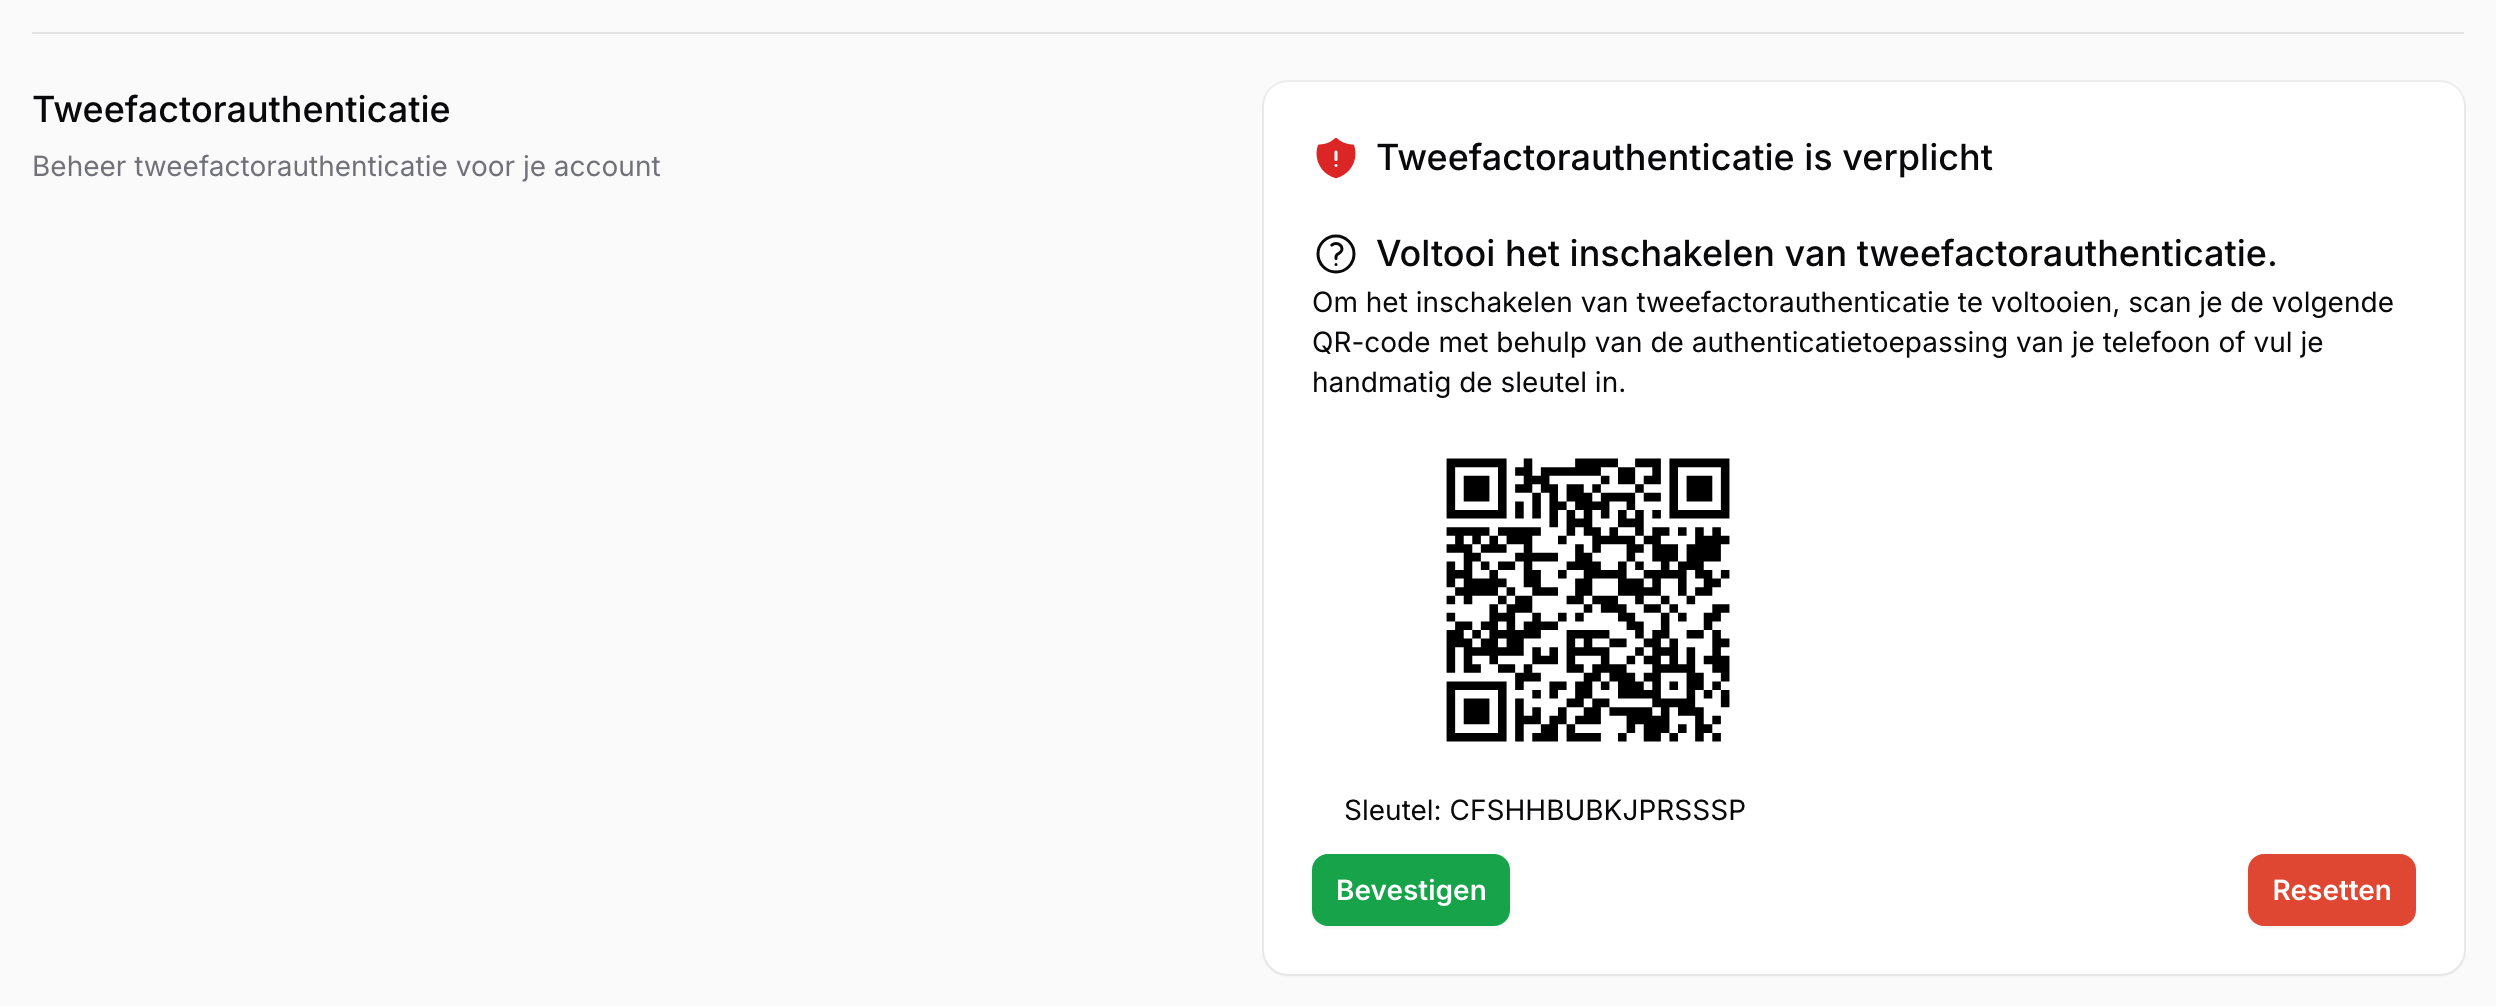
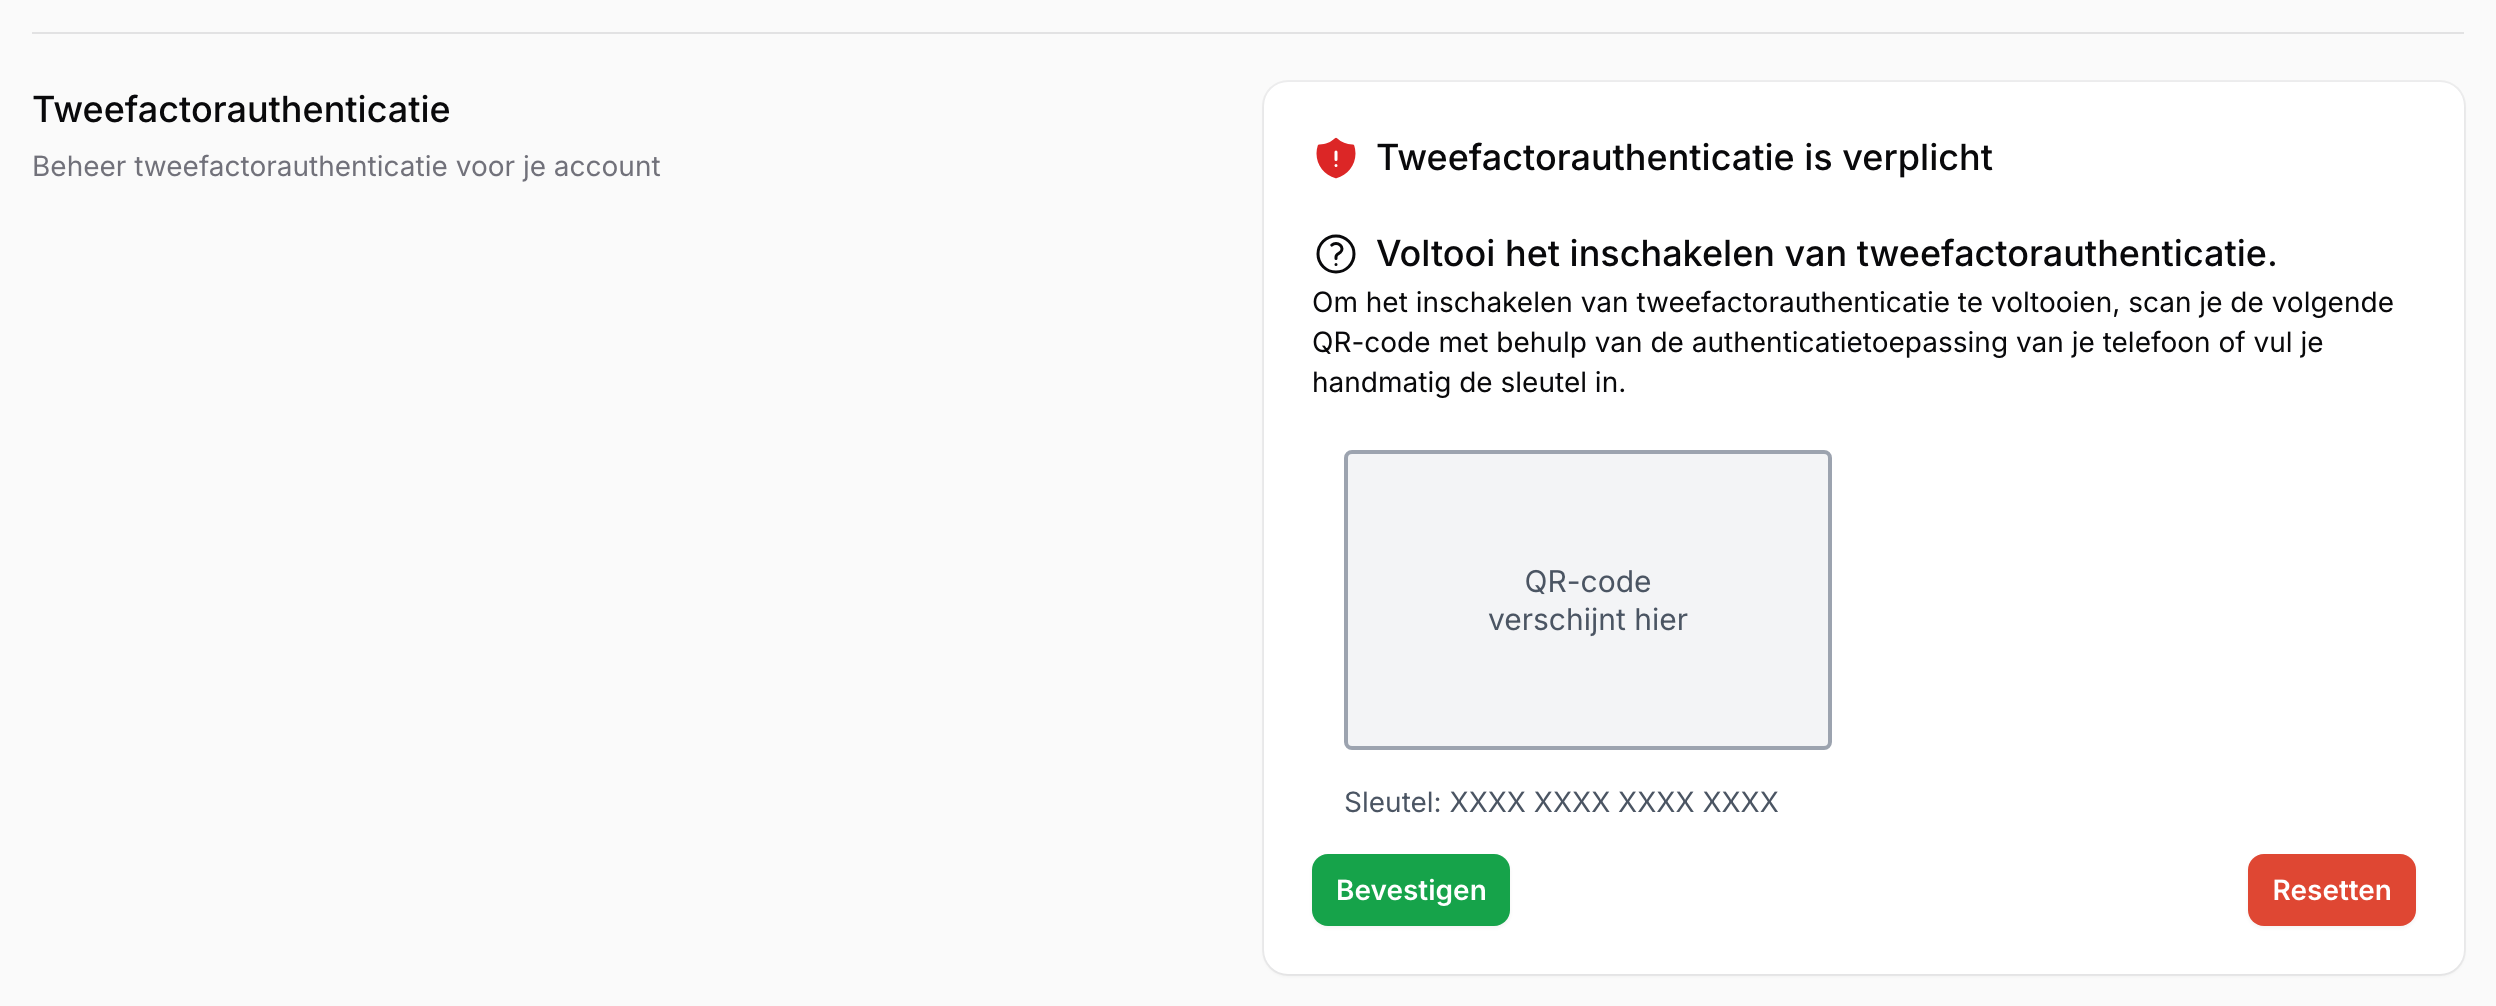
fix: maskeer qr-code en sleutel in otp-screenshot (#158)
De figuur toont een scanbare QR-code met de bijbehorende sleutel en staat in
src/cms/public/handleiding/, dat zonder authenticatie wordt geserveerd. De
sleutel is faker-output uit een dev-database, maar de pijplijn publiceert wat
er op capture-moment in de database staat.

Een nieuwe annotatie, __annotate.mask(), legt vóór de schermafdruk een
plaatshouder met uitleg over een element heen. De afmetingen komen van het
element zelf, net als bij de andere annotaties: de sleutel is tekst van
variabele breedte in een break-words-alinea, dus een brede sleutel maakt de
regel breder en laat hem doorlopen op een tweede regel. Een vaste rechthoek
laat dan een deel van het geheim staan.

Omdat het masker vóór de opname wordt getekend, komt het geheim niet in de
afbeelding terecht -- er valt achteraf niets te verwijderen en er is geen
omkeerbare bewerking die iemand ongedaan kan maken.

Een masker kan niet uit zichzelf luid falen: verschuift een selector, dan
belandt het ergens anders en meldt de capture alsnog succes. Daarom wordt na
het tekenen gecontroleerd of het element daadwerkelijk gedekt is; zo niet, dan
faalt de figuur en wordt er geen bestand geschreven.

De twee elementen krijgen hiervoor een data-screenshot-mask-attribuut, zodat
ook vanuit de blade duidelijk is dat ze niet gepubliceerd mogen worden.

Changed region(s): [[0.5312, 0.4314, 0.7188, 0.832]]

diff --git a/tools/screenshots/annotate.js b/tools/screenshots/annotate.js
@@ -224,10 +224,97 @@
     return el;
   }
 
+  /**
+   * Cover an element with an opaque placeholder carrying its own label, for
+   * content that must not be published at all - a QR code that encodes a TOTP
+   * secret, say. Sized from the element, so a wider or wrapped target is
+   * covered in full without anyone re-measuring anything.
+   *
+   * Unlike redact() this is not a grey bar: it explains itself, so a reader who
+   * meets the figure without the surrounding text understands that a real code
+   * appears here rather than a rendering failure.
+   *
+   * The mask is painted *before* the screenshot, so the secret is never in the
+   * captured image - there is no reversible transform to undo, and nothing to
+   * scrub afterwards. Callers should verify coverage with masked() rather than
+   * assume a selector still matches what they think it does.
+   */
+  function mask(
+    target,
+    text = '',
+    // `box` draws the framed placeholder, which reads as "something belongs
+    // here". Pass box: false for a masked line of text, where a frame around a
+    // single line looks heavier than the text it replaces.
+    { background = '#f3f4f6', border = '#9ca3af', color = '#4b5563', box = true } = {},
+  ) {
+    const t = resolve(target);
+    const el = document.createElement('div');
+    const style = window.getComputedStyle(
+      typeof target === 'string' ? document.querySelector(target) : target,
+    );
+    Object.assign(el.style, {
+      position: 'absolute',
+      left: `${t.left}px`,
+      top: `${t.top}px`,
+      width: `${t.width}px`,
+      // Let a text mask grow if its replacement text needs more room than the
+      // original: the point is to cover, and a clipped placeholder would leave
+      // the real content peeking out below.
+      minHeight: `${t.height}px`,
+      background: box ? background : '#ffffff',
+      border: box ? `2px solid ${border}` : 'none',
+      borderRadius: box ? '4px' : '0',
+      boxSizing: 'border-box',
+      display: 'flex',
+      alignItems: 'center',
+      justifyContent: box ? 'center' : 'flex-start',
+      textAlign: box ? 'center' : 'left',
+      whiteSpace: 'pre-line',
+      padding: box ? '4px' : '0',
+      color,
+      // Inherit the target's own typography so a masked line of text sits on
+      // the page exactly as the real one did.
+      font: style.font,
+      fontFamily: style.fontFamily,
+      fontSize: box ? '15px' : style.fontSize,
+      lineHeight: box ? '1.3' : style.lineHeight,
+    });
+    el.textContent = text;
+    layer().appendChild(el);
+    return el;
+  }
+
+  /**
+   * Is every element matching `selector` fully covered by a mask?
+   *
+   * A mask that silently lands on the wrong element is worse than none: the
+   * figure ships the secret while the capture reports success. So this checks
+   * the actual geometry rather than trusting that a selector still matches.
+   */
+  function masked(selector) {
+    const masks = [...layer().children].map((m) => m.getBoundingClientRect());
+    const targets = [...document.querySelectorAll(selector)];
+    if (targets.length === 0) return false;
+    return targets.every((el) => {
+      const r = el.getBoundingClientRect();
+      if (r.width === 0 && r.height === 0) return true;
+      // Allow a sub-pixel slack: fractional layout rounding otherwise reports a
+      // fully covered element as exposed by a hairline.
+      const pad = 1;
+      return masks.some(
+        (m) =>
+          m.left <= r.left + pad &&
+          m.top <= r.top + pad &&
+          m.right >= r.right - pad &&
+          m.bottom >= r.bottom - pad,
+      );
+    });
+  }
+
   function clear() {
     const el = document.getElementById(LAYER_ID);
     if (el) el.remove();
   }
 
-  window.__annotate = { arrow, box, badge, redact, clear, ACCENT };
+  window.__annotate = { arrow, box, badge, redact, mask, masked, clear, ACCENT };
 })();

diff --git a/src/cms/resources/views/livewire/user/profile/one-time-password.blade.php b/src/cms/resources/views/livewire/user/profile/one-time-password.blade.php
@@ -43,10 +43,14 @@
                 <p class="text-sm">{{ __('user.profile.one_time_password.finish_enabling.description') }}</p>
                 <div class="flex mt-3 space-x-4 divide-x">
                     <div class="px-4 space-y-3 w-1/2">
-                        <div class="flex place-content-center mt-3">
+                        {{-- data-screenshot-mask: the handleiding has a figure of
+                             this card, and its images are served unauthenticated.
+                             tools/screenshots masks these two elements so no
+                             scannable code or key is ever published. --}}
+                        <div class="flex place-content-center mt-3" data-screenshot-mask="qr">
                             {!! $this->getQrCode() !!}
                         </div>
-                        <p class="pt-2 text-sm break-words">
+                        <p class="pt-2 text-sm break-words" data-screenshot-mask="secret">
                             {{ __('user.profile.one_time_password.setup_key') }}
                             {{ $user->otp_secret }}
                         </p>

diff --git a/tools/screenshots/README.md b/tools/screenshots/README.md
@@ -63,6 +63,42 @@ optioneel op welk element wordt bijgesneden.
 }
 ```
 
+### Maskeren
+
+De figuren komen in `src/cms/public/` te staan en worden dus zonder
+authenticatie geserveerd. De otp-figuur toont noodzakelijkerwijs een scanbare
+QR-code met de bijbehorende sleutel; die worden daarom vóór het maken van de
+schermafdruk afgedekt met een plaatshouder.
+
+Een figuur declareert dat met `mask`:
+
+```js
+mask: [
+  { selector: '[data-screenshot-mask="qr"]', text: 'QR-code\nverschijnt hier' },
+  { selector: '[data-screenshot-mask="secret"]', text: 'Sleutel: XXXX XXXX XXXX XXXX' },
+],
+```
+
+De plaatshouder wordt op de afmetingen van het element zelf gezet, net als de
+andere annotaties. Dat is hier niet alleen consistentie: de sleutel is tekst van
+variabele breedte in een `break-words`-alinea, dus een brede sleutel maakt de
+regel breder én laat hem doorlopen op een tweede regel. Een vaste rechthoek laat
+dan een deel van het geheim staan.
+
+Het masker gaat er vóór de schermafdruk overheen, dus het geheim komt niet in de
+afbeelding terecht — er valt achteraf niets meer te verwijderen, en er is geen
+omkeerbare bewerking (zoals blur) die iemand ongedaan kan maken.
+
+Daarna wordt gecontroleerd of het masker het element daadwerkelijk dekt; zo
+niet, dan faalt de capture. Een masker dat er stilletjes naast zit is erger dan
+geen: dat leest als "geregeld" terwijl het geheim alsnog gepubliceerd wordt.
+
+De twee elementen hebben hiervoor een `data-screenshot-mask`-attribuut in
+`one-time-password.blade.php`. Dat is bewust een uitzondering op de regel
+hieronder: bij de andere figuren mag een selector die niet meer klopt een
+mislukte capture opleveren, maar hier moet volstrekt duidelijk zijn — ook vanuit
+de blade — dat deze elementen niet gepubliceerd mogen worden.
+
 ### Selectors
 
 Gebruik bij voorkeur `getByRole(...)` met de zichtbare of toegankelijke naam.
@@ -77,9 +113,11 @@ wel een `sr-only`-label met een unieke naam per rij ("Item &lt;key&gt;
 selecteren...") tegenover de kop ("Alle items..."). Daarmee is een rij te
 selecteren zonder op DOM-volgorde of op Alpine's `x-on:click` te leunen.
 
-Er zijn daarom geen extra `data-*`-attributen aan de applicatie toegevoegd:
-rollen en toegankelijke namen dekken de gevallen die ertoe doen, en die zijn
-sowieso nuttig voor toegankelijkheid.
+Er zijn daarom vrijwel geen extra `data-*`-attributen aan de applicatie
+toegevoegd: rollen en toegankelijke namen dekken de gevallen die ertoe doen, en
+die zijn sowieso nuttig voor toegankelijkheid. De uitzondering is
+`data-screenshot-mask` (zie [Maskeren](#maskeren)), waar een mislukte selector
+niet alleen een lelijke figuur maar een gepubliceerd geheim zou opleveren.
 
 Twee keuzes zijn bewust gemaakt:
 
@@ -101,7 +139,13 @@ window.__annotate.arrow('#selector', { side: 'left' });  // left|right|top|botto
 window.__annotate.box('#selector');
 window.__annotate.badge('#selector', 1);
 window.__annotate.redact('#selector');
+window.__annotate.mask('#selector', 'QR-code\nverschijnt hier');  // box: false voor tekst
 ```
+
+`redact` legt een grijze balk over iets; `mask` zet er een plaatshouder mét
+uitleg overheen, voor inhoud die helemaal niet gepubliceerd mag worden.
+Gebruik in figuren bij voorkeur de declaratieve `mask`-eigenschap hierboven:
+die controleert ook of het element daadwerkelijk gedekt is.
 
 `side` is de kant van het element waar de pijl staat; de pijl wijst altijd naar
 het element toe. De accentkleur is `#F84F39`, gelijk aan de huisstijl.
